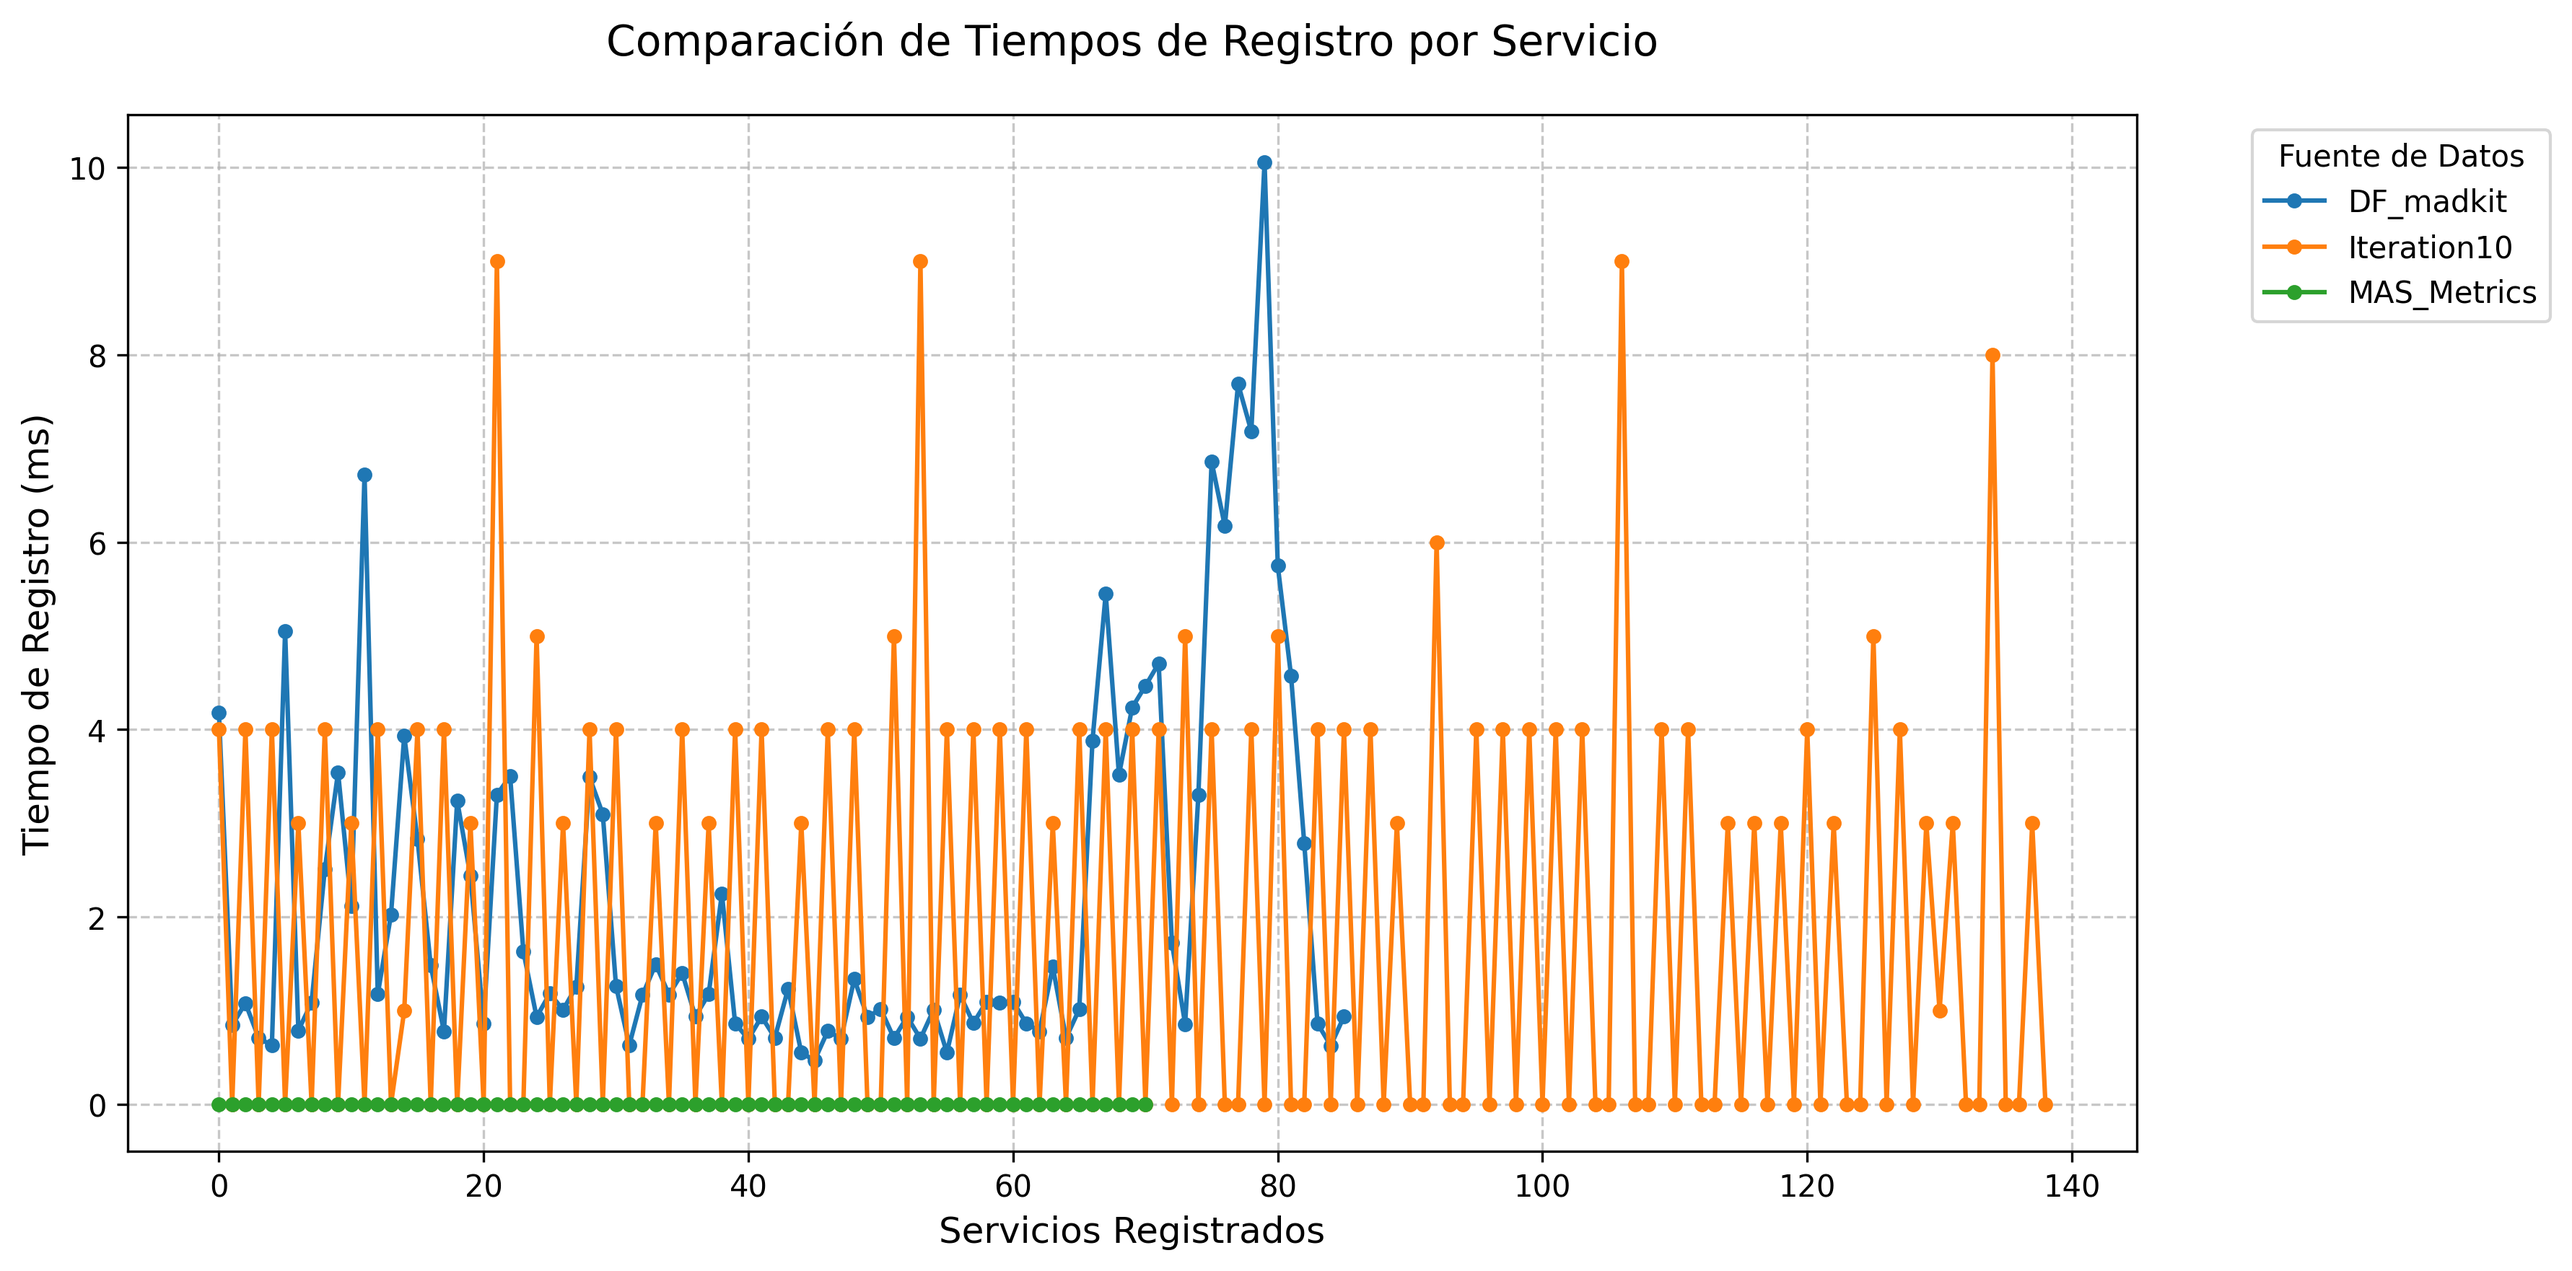
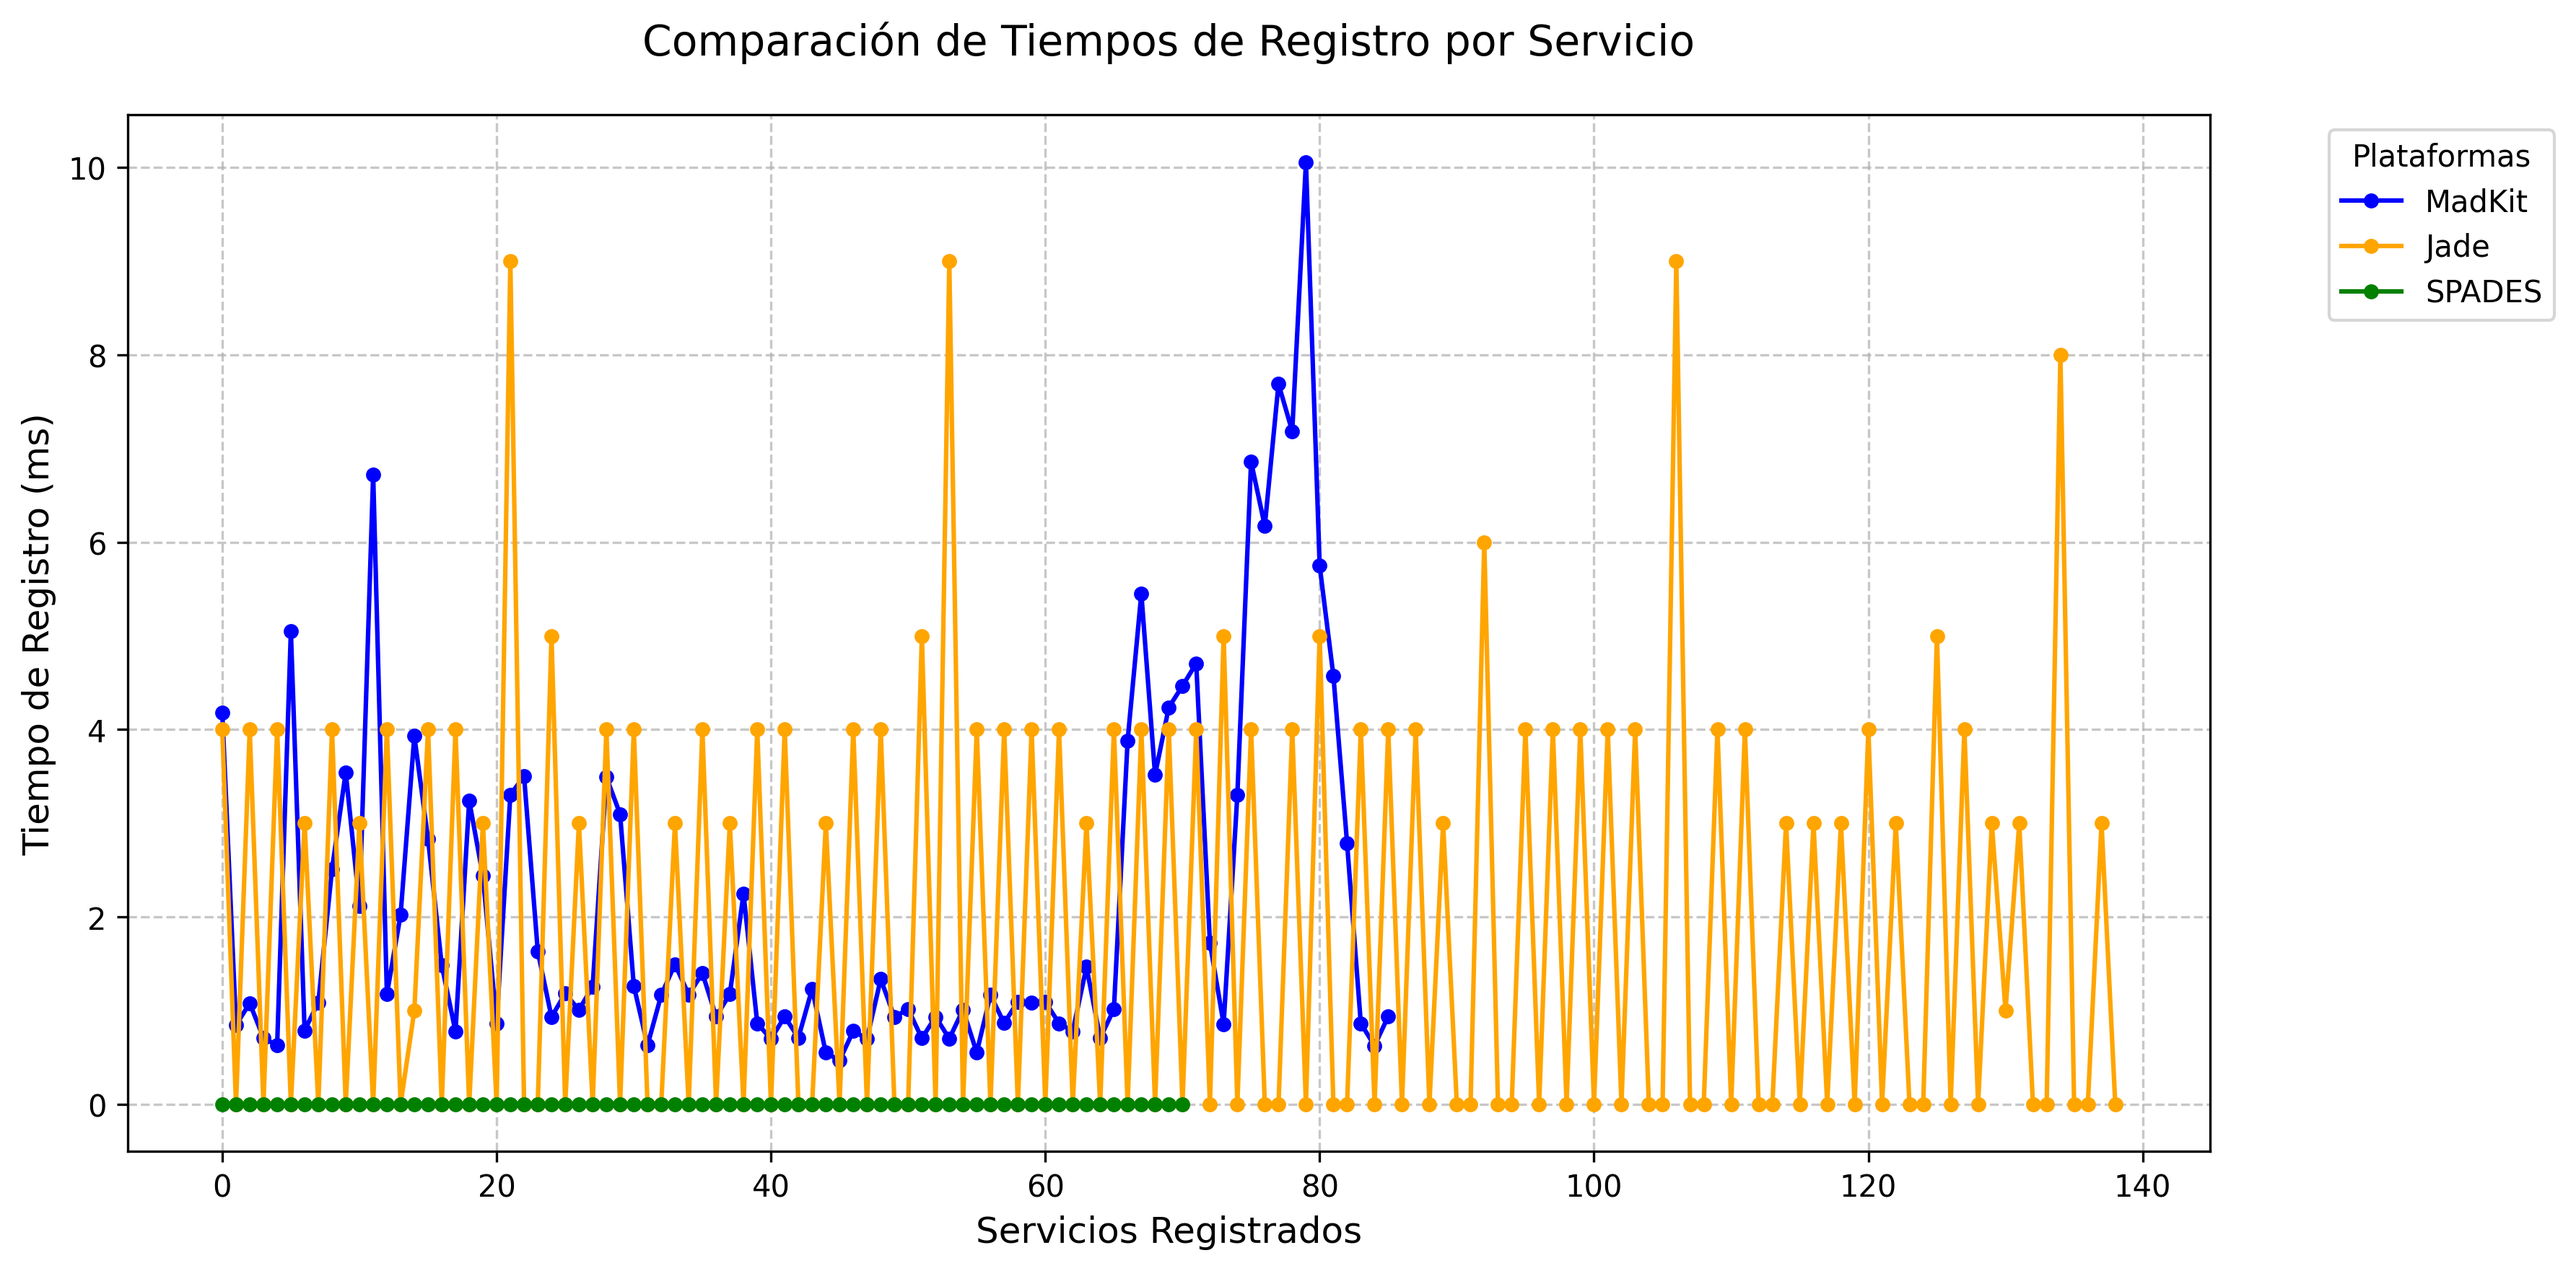
update leyenda

diff --git a/agent_output/Metricas/DF/DF.py b/agent_output/Metricas/DF/DF.py
@@ -36,13 +36,24 @@ def create_comparison_plot(data):
     # Crear nueva figura
     plt.figure(figsize=(12, 6))
     
+    # Mapeo de nombres antiguos a nuevos para la leyenda
+    nombre_plataformas = {
+        'DF_madkit': 'MadKit',
+        'Iteration10': 'Jade',
+        'MAS_Metrics': 'SPADES'
+    }
+    
+    # Definir colores específicos
+    colors = ['blue', 'orange', 'green']
+    
     # Obtener datos únicos para cada fuente
-    for fuente in data['Fuente'].unique():
+    for i, fuente in enumerate(data['Fuente'].unique()):
         subset = data[data['Fuente'] == fuente]
         plt.plot(subset['Servicios_Registrados'], 
                 subset['Tiempo_Registro'], 
                 marker='o',
-                label=fuente,
+                label=nombre_plataformas[fuente],  # Usar el nuevo nombre solo en la leyenda
+                color=colors[i],
                 linestyle='-',
                 markersize=4)
     
@@ -51,7 +62,7 @@ def create_comparison_plot(data):
     plt.xlabel('Servicios Registrados', fontsize=12)
     plt.ylabel('Tiempo de Registro (ms)', fontsize=12)
     plt.grid(True, linestyle='--', alpha=0.7)
-    plt.legend(title='Fuente de Datos', bbox_to_anchor=(1.05, 1), loc='upper left')
+    plt.legend(title='Plataformas', bbox_to_anchor=(1.05, 1), loc='upper left')
     
     # Ajustar los márgenes
     plt.tight_layout()
@@ -72,9 +83,14 @@ def main():
         
         # Imprimir algunas estadísticas básicas
         print("\nEstadísticas por fuente:")
+        nombre_plataformas = {
+            'DF_madkit': 'MadKit',
+            'Iteration10': 'Jade',
+            'MAS_Metrics': 'SPADES'
+        }
         for fuente in data['Fuente'].unique():
             subset = data[data['Fuente'] == fuente]
-            print(f"\n{fuente}:")
+            print(f"\n{nombre_plataformas[fuente]}:")
             print(f"  Promedio: {subset['Tiempo_Registro'].mean():.2f} ms")
             print(f"  Máximo: {subset['Tiempo_Registro'].max():.2f} ms")
             print(f"  Mínimo: {subset['Tiempo_Registro'].min():.2f} ms")
